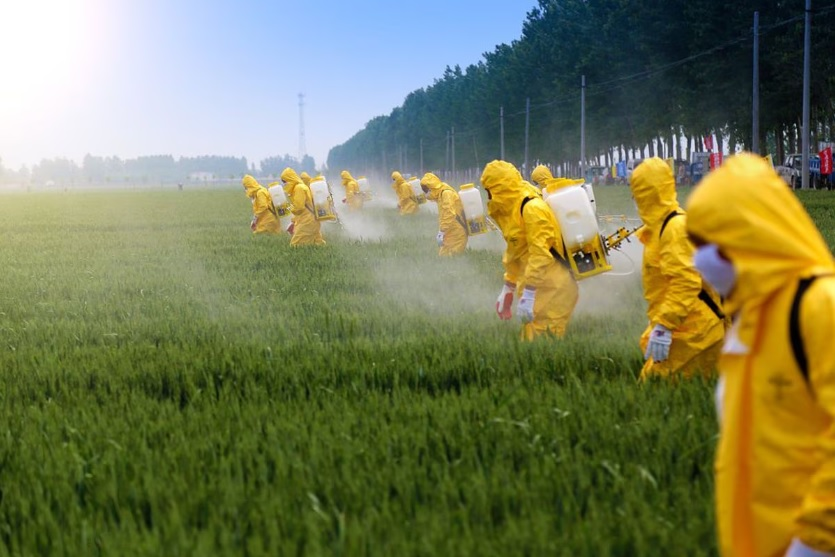
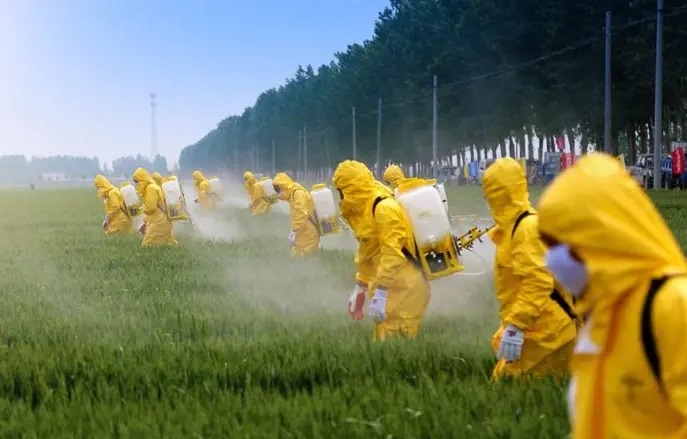
se cambia el tamaño de las imágene de concientización para que funcione más rápido el sitio. se sube contenido para hacer prueba con lighthouse

diff --git a/pags/concientizacion.html b/pags/concientizacion.html
@@ -61,38 +61,38 @@
   <div class="row grilla-ind flex-wrap">
     <div class="col-12 col-sm-6 col-lg-4 d-flex">
       <div class="image-container">
-        <img src="../img/ingan1.webp" alt="Imágen sobre la Industria Carnica." class="img-fluid img-size max-width">
-        <a href="carnica.html" rel="noopener noreferrer"><img src="../img/ingan2.webp" alt="Imágen sobre las consecuencias de la Industria Carnica." class="img-fluid img-size max-width"></a>
+        <img src="../img/ingan1.jpg" alt="Imágen sobre la Industria Carnica." class="img-fluid img-size max-width">
+        <a href="carnica.html" rel="noopener noreferrer"><img src="../img/ingan2.jpg" alt="Imágen sobre las consecuencias de la Industria Carnica." class="img-fluid img-size max-width"></a>
       </div>
     </div>
     <div class="col-12 col-sm-6 col-lg-4 d-flex">
       <div class="image-container">
-        <img src="../img/inagri1.webp" alt="Imágen sobre la Industria Agricola." class="img-fluid img-size max-width">
-        <a href="agricola.html" rel="noopener noreferrer"><img src="../img/inagric2.webp" alt="Imágen sobre las consecuencias de la Industria Agricola." class="img-fluid img-size max-width"></a>
+        <img src="../img/inagri1.jpg" alt="Imágen sobre la Industria Agricola." class="img-fluid img-size max-width">
+        <a href="agricola.html" rel="noopener noreferrer"><img src="../img/inagric2.jpg" alt="Imágen sobre las consecuencias de la Industria Agricola." class="img-fluid img-size max-width"></a>
       </div>
     </div>
     <div class="col-12 col-sm-6 col-lg-4 d-flex">
       <div class="image-container">
-        <img src="../img/inpesq1.webp" alt="Imágen sobre la Industria Pesquera." class="img-fluid img-size max-width">
-        <a href="pesquera.html" rel="noopener noreferrer"><img src="../img/inpesq2.webp" alt="Imágen sobre las consecuencias de la Industria Pesquera." class="img-fluid img-size max-width"></a>
+        <img src="../img/inpesq1.jpg" alt="Imágen sobre la Industria Pesquera." class="img-fluid img-size max-width">
+        <a href="pesquera.html" rel="noopener noreferrer"><img src="../img/inpesq2.jpg" alt="Imágen sobre las consecuencias de la Industria Pesquera." class="img-fluid img-size max-width"></a>
       </div>
     </div>
     <div class="col-12 col-sm-6 col-lg-4 d-flex">
       <div class="image-container">
-        <img src="../img/inpet1.webp" alt="Imágen sobre la Industria Petrolera." class="img-fluid img-size max-width">
-        <a href="petroleo.html" rel="noopener noreferrer"><img src="../img/inpet2.webp" alt="Imágen sobre las consecuencias de la Industria Petrolera." class="img-fluid img-size max-width"></a>
+        <img src="../img/inpet1.jpg" alt="Imágen sobre la Industria Petrolera." class="img-fluid img-size max-width">
+        <a href="petroleo.html" rel="noopener noreferrer"><img src="../img/inpet2.jpg" alt="Imágen sobre las consecuencias de la Industria Petrolera." class="img-fluid img-size max-width"></a>
       </div>
     </div>
     <div class="col-12 col-sm-6 col-lg-4 d-flex">
       <div class="image-container">
-        <img src="../img/inmoda11.webp" alt="Imágen sobre la Industria Textil class="img-fluid img-size max-width">
-        <a href="moda.html" rel="noopener noreferrer"><img src="../img/inmoda2.webp" alt="Imágen sobre las consecuencias de la Industria Textil" class="img-fluid img-size max-width"></a>
+        <img src="../img/inmoda11.jpg" alt="Imágen sobre la Industria Textil class="img-fluid img-size max-width">
+        <a href="moda.html" rel="noopener noreferrer"><img src="../img/inmoda2.jpg" alt="Imágen sobre las consecuencias de la Industria Textil" class="img-fluid img-size max-width"></a>
       </div>
     </div>
     <div class="col-12 col-sm-6 col-lg-4 d-flex">
       <div class="image-container">
-        <img src="../img/inotros1.webp" alt="Imágen de una fábrica que representa a Otras Industrias" class="img-fluid img-size max-width">
-        <a href="otros.html" rel="noopener noreferrer"><img src="../img/inotros2.webp" alt="Imágen de una fábrica que representa a Otras Industrias 2" class="img-fluid img-size max-width"></a>
+        <img src="../img/inotros1.jpg" alt="Imágen de una fábrica que representa a Otras Industrias" class="img-fluid img-size max-width">
+        <a href="otros.html" rel="noopener noreferrer"><img src="../img/inotros2.jpg" alt="Imágen de una fábrica que representa a Otras Industrias 2" class="img-fluid img-size max-width"></a>
       </div>
     </div>
   </div>

diff --git a/pags/masinfo.html b/pags/masinfo.html
@@ -50,31 +50,35 @@
     </header>
     
 <main>    
+
+    <section class="buscador">
+        <input type="text" placeholder="Buscar" class="buscador__input">
+        <input type="button" value="Go">
+    </section>
+
  
     <section id="ambiente-masinfo">
         <div id="carouselExampleRide" class="carousel slide padre-cards row" data-bs-ride="false" >
             <div class="carousel-inner">
               <div class="carousel-item active">
                 <div class="wrapper-card">
-                    <span> 23/04 </span>
-                    <img src="../img/GH.webp" class="d-block w-100 card-image" alt="Imágen sobre el Green Hushing." >
+                    <span> 20/03 </span>
+                    <img src="../img/MAR.webp" class="d-block w-100 card-image" alt="Imágen del barco hundido de Sri Lanka que contaminó sus costas.">
                     <div class="info-wrapper">
-                    <h4>¿Qué es el Green hushing?</h4>
-                    <p>Sobre qué es la nota.</p>
-    
-                    <p>02/05</p>
-                    <a href="https://www.telam.com.ar/notas/202305/627225-cuando-las-empresas-se-llaman-a-silencio-frente-a-la-crisis-climatica-que-es-el-greenhushing.html" target="_blank">
-                    <button>
-                        <p>¡Lee la noticia!</p>
-                    </button>
-                    </a>
+                        <h4>Pesca ilegal en el mar Argentino.</h4>
+                        <p>Sobre qué es la nota.</p>
+                        <a href="https://www.clarin.com/sociedad/aire-ve-ciudad-flotante-pesca-ilegal-mar-argentino_0_rsIFb9dfJz.html" target="_blank">
+                        <button>
+                            <p>¡Lee la noticia!</p>
+                        </button>
+                        </a>
                     </div>
-               </div>
+                </div>
               </div>
 
               <div class="carousel-item">
                 <div class="wrapper-card">
-                    <span> 23/04 </span>
+                    <span> 25/04 </span>
                     <img src="../img/SL.webp" class="d-block w-100 card-image" alt="Imágen del barco hundido de Sri Lanka que contaminó sus costas.">
                     <div class="info-wrapper">
                         <h4>Desastre Ambiental en Sri Lanka.</h4>
@@ -106,18 +110,19 @@
 
               <div class="carousel-item">
                 <div class="wrapper-card">
-                    <span> 23/04 </span>
-                    <img src="../img/MAR.webp" class="d-block w-100 card-image" alt="Imágen del barco hundido de Sri Lanka que contaminó sus costas.">
+                    <span> 02/05 </span>
+                    <img src="../img/GH.webp" class="d-block w-100 card-image" alt="Imágen sobre el Green Hushing." >
                     <div class="info-wrapper">
-                        <h4>Pesca ilegal en el mar Argentino.</h4>
-                        <p>Sobre qué es la nota.</p>
-                        <a href="https://www.clarin.com/sociedad/aire-ve-ciudad-flotante-pesca-ilegal-mar-argentino_0_rsIFb9dfJz.html" target="_blank">
-                        <button>
-                            <p>¡Lee la noticia!</p>
-                        </button>
-                        </a>
+                    <h4>¿Qué es el Green hushing?</h4>
+                    <p>Sobre qué es la nota.</p>
+    
+                    <a href="https://www.telam.com.ar/notas/202305/627225-cuando-las-empresas-se-llaman-a-silencio-frente-a-la-crisis-climatica-que-es-el-greenhushing.html" target="_blank">
+                    <button>
+                        <p>¡Lee la noticia!</p>
+                    </button>
+                    </a>
                     </div>
-                </div>
+               </div>
               </div>
             </div>
 

diff --git a/css/style.css b/css/style.css
@@ -50,20 +50,28 @@ h4 {
 /*buscador*/
 .buscador {
   display: grid;
-  grid-template-columns: 80% 20%;
   justify-self: center;
   height: 40px;
   margin: 20px 0;
+  position: relative;
 }
-.buscador input [type=text] {
+.buscador input[type=text] {
   border-radius: 15px;
+}
+.buscador input[type=button] {
+  position: absolute;
+  right: 0;
+  height: 100%;
+  width: 15%;
+  border-top-right-radius: 15px;
+  border-bottom-right-radius: 15px;
 }
 @media screen and (min-width: 1024px) {
   .buscador {
     display: grid;
-    grid-template-columns: auto 60px;
     justify-self: center;
     height: 40px;
+    position: relative;
   }
   .buscador input [type=text] {
     border-radius: 15px;
@@ -214,6 +222,7 @@ header a {
 /*section-index*/
 .section-index__fondo-celeste {
   background-color: #80ADC1;
+  border-radius: 10px;
 }
 
 #section-index__letra-verde {
@@ -510,20 +519,28 @@ h4 {
 /*buscador*/
 .buscador {
   display: grid;
-  grid-template-columns: 80% 20%;
   justify-self: center;
   height: 40px;
   margin: 20px 0;
+  position: relative;
 }
-.buscador input [type=text] {
+.buscador input[type=text] {
   border-radius: 15px;
+}
+.buscador input[type=button] {
+  position: absolute;
+  right: 0;
+  height: 100%;
+  width: 15%;
+  border-top-right-radius: 15px;
+  border-bottom-right-radius: 15px;
 }
 @media screen and (min-width: 1024px) {
   .buscador {
     display: grid;
-    grid-template-columns: auto 60px;
     justify-self: center;
     height: 40px;
+    position: relative;
   }
   .buscador input [type=text] {
     border-radius: 15px;

diff --git a/scss/partials/_generales.scss b/scss/partials/_generales.scss
@@ -47,18 +47,26 @@ h4 {
 /*buscador*/
 .buscador {
     display: grid;
-    grid-template-columns: 80% 20%;
     justify-self: center;
     height: 40px;
     margin: 20px 0;
-    input [type="text"] {
+    position: relative;
+    input[type="text"] {
         border-radius: 15px;    
+    }
+    input[type="button"] {
+        position: absolute;
+        right: 0;
+        height: 100%;
+        width: 15%;
+        border-top-right-radius: 15px;
+        border-bottom-right-radius: 15px;
     }
     @media screen and (min-width: 1024px) {
         display: grid;
-        grid-template-columns: auto 60px;
         justify-self: center;
         height: 40px;
+        position: relative;
         input  [type="text"] {
             border-radius: 15px;    
         }

diff --git a/scss/partials/_index.scss b/scss/partials/_index.scss
@@ -4,7 +4,8 @@
 
 /*section-index*/
 .section-index__fondo-celeste {
-    background-color:  #80ADC1;
+    background-color: #80ADC1;
+    border-radius: 10px;
 }
 
 #section-index__letra-verde {
